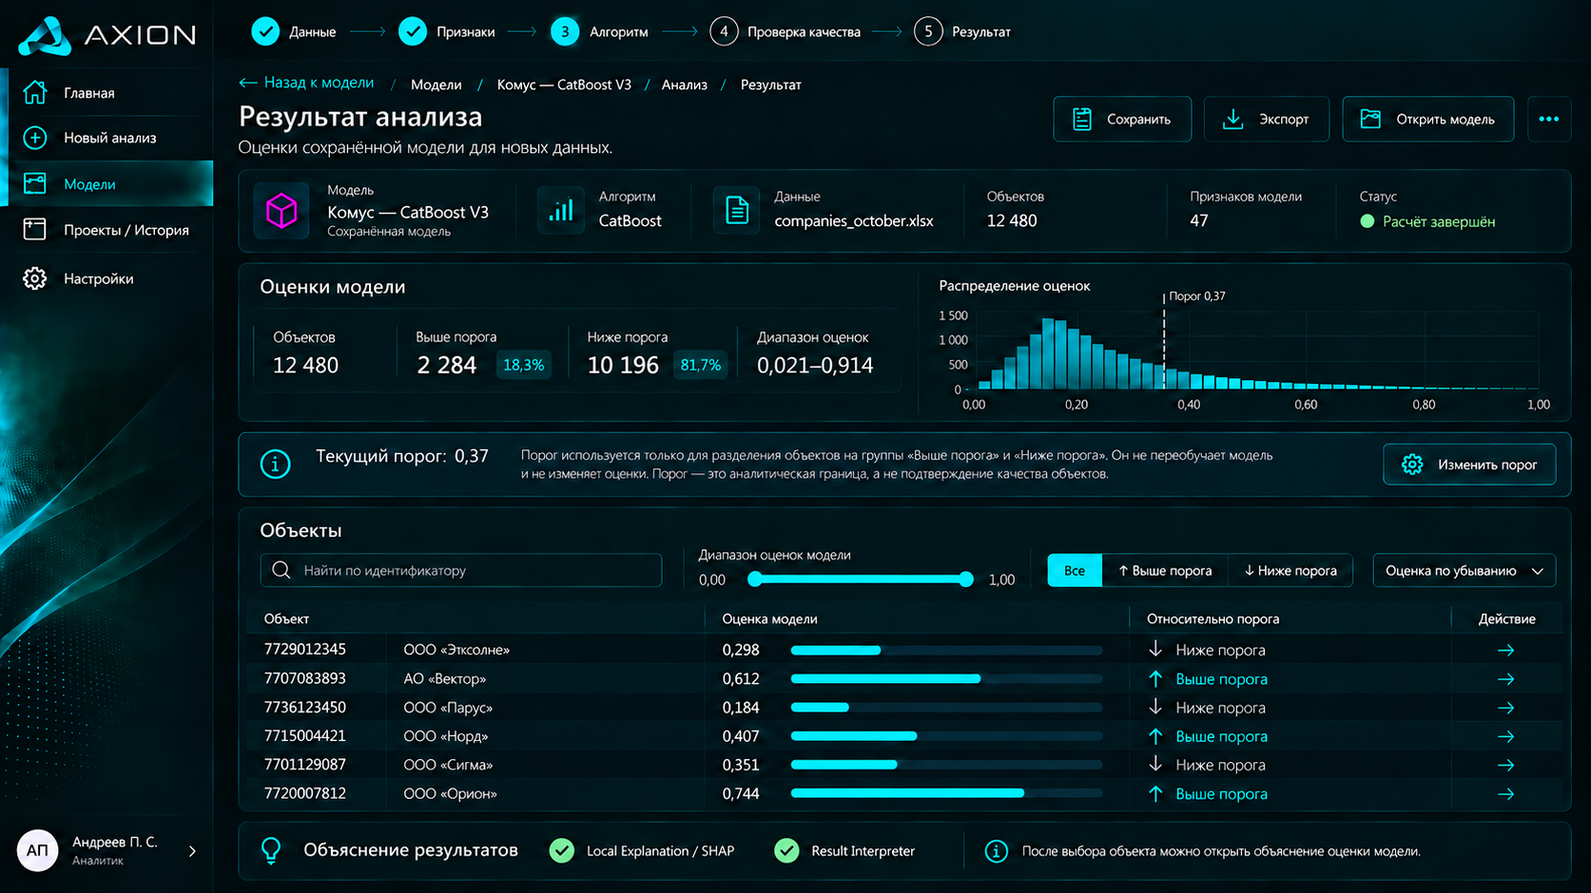
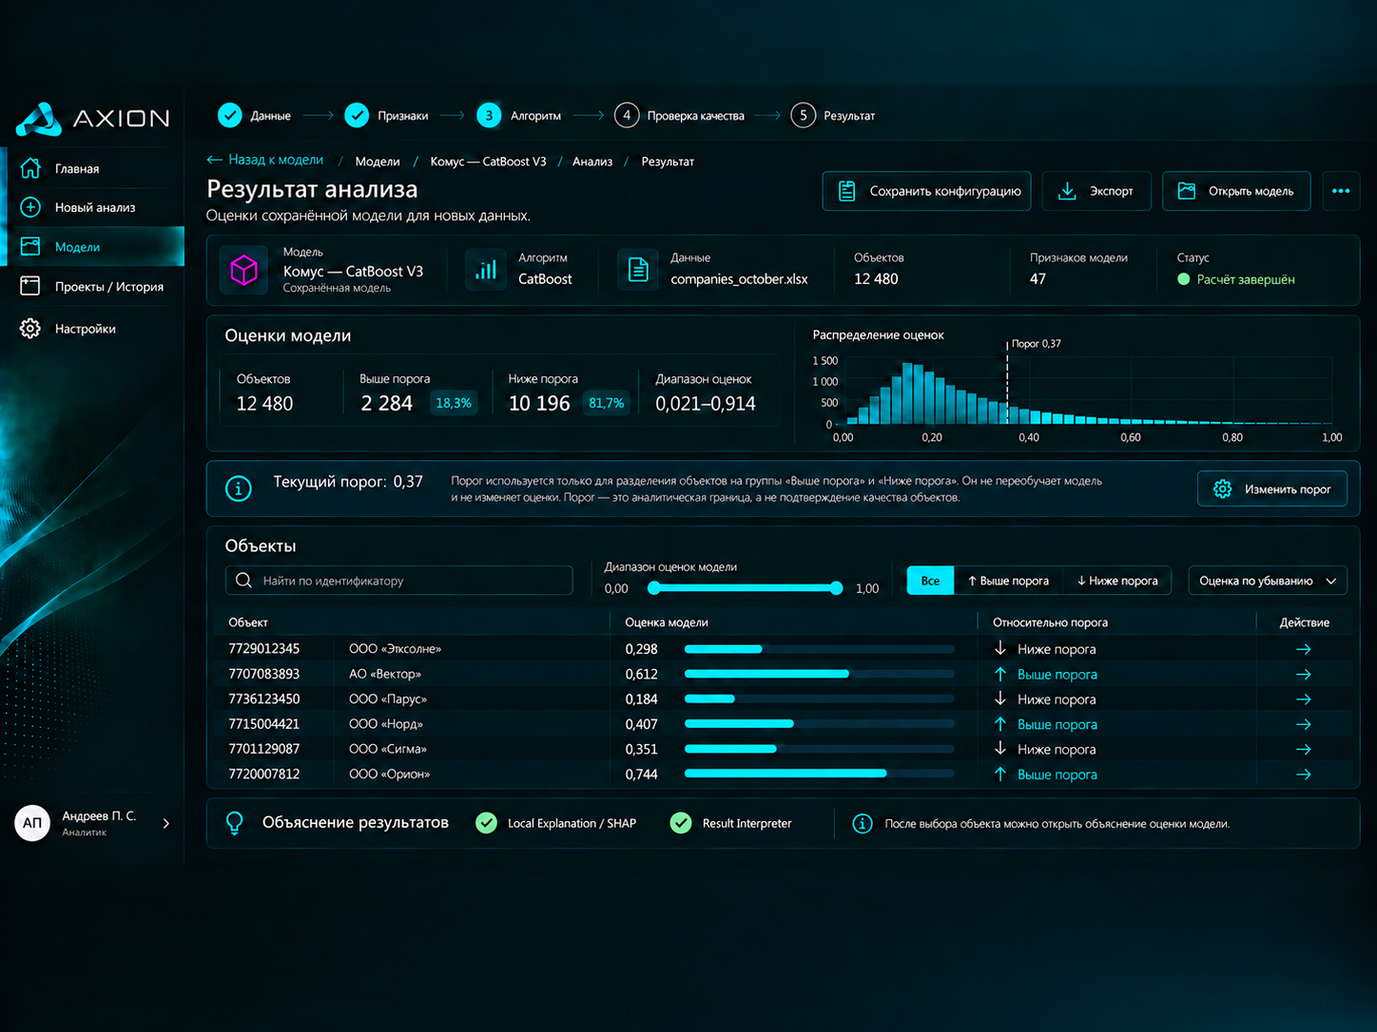
Зафиксировать результат inference и конфигурацию вида

diff --git a/docs/workstreams/generic_dataset_onboarding_v1/MODELS_UX_V1.md b/docs/workstreams/generic_dataset_onboarding_v1/MODELS_UX_V1.md
@@ -9,7 +9,7 @@ Primary visual references:
 - `docs/design/screens/models/02_algorithm_detail_highlight_v1.png`
 - `docs/design/screens/models/03_model_version_detail_v1.png`
 - `docs/design/screens/models/04_saved_model_inference_v1.png`
-- `docs/design/screens/models/05_saved_model_inference_result_v1.png` — DESIGN REFERENCE; threshold lifecycle/persistence pending Architect decision
+- `docs/design/screens/models/05_saved_model_inference_result_v1.png` — VISUAL LOCK; saved targetless inference Result with `Сохранить конфигурацию`; demo threshold `0.37` represents a changed/saved view, while no-config default remains `0.50`
 
 ## 1. Product model
 
@@ -276,13 +276,13 @@ Future backend implementation must provide a trusted application contract for:
 
 The UI must not infer compatibility from column count alone and must not silently remap missing model features.
 
-## 10. Saved Model Inference Result V1 — current design reference
+## 10. Saved Model Inference Result V1 — visual lock
 
 Reference:
 
 `05_saved_model_inference_result_v1.png`
 
-The owner accepted the screen composition and current visual language. It is intentionally recorded as a **DESIGN REFERENCE**, not yet a full semantic visual lock, because threshold lifecycle/persistence is awaiting a separate Architect decision.
+The owner accepted the final screen composition and current visual language. This PNG is the **VISUAL LOCK** for Saved Model Inference Result V1. The top action is `Сохранить конфигурацию`. Conditional `Сбросить настройки` remains inside the existing `⋯` menu and therefore does not need a separate always-visible control in the locked base state. Demo threshold `0.37` represents a changed/saved view; runtime default without saved configuration remains `0.50`.
 
 Stable semantics already visible in the reference:
 - targetless inference result shows immutable model scores for new objects;
@@ -292,9 +292,104 @@ Stable semantics already visible in the reference:
 - object-level Local Explanation / SHAP and Result Interpreter are downstream capabilities after selecting an object;
 - the current summary uses plain counts for objects above/below threshold plus percentages and score range.
 
-Open Architect decision:
-- whether inference result is automatically persisted as immutable result evidence;
-- whether threshold is transient view state or a persisted scenario over one immutable result;
-- what the top action `Сохранить` means;
-- where the initial targetless-inference threshold comes from;
-- `Изменить порог` must not be implemented as a model retraining action unless a future accepted decision explicitly changes this.
+### Accepted inference-result / saved view-configuration lifecycle
+
+Canonical model:
+
+```text
+Saved ModelVersion
++ targetless inference dataset
+→ immutable SavedModelInferenceResult
+    ├─ object identities
+    └─ immutable model scores
+
+SavedModelInferenceResult
+    ↓
+mutable SavedInferenceResultViewConfiguration
+    ├─ threshold
+    ├─ score range
+    ├─ above/below/all filter
+    ├─ sort
+    └─ search
+```
+
+Accepted semantics:
+- successful inference automatically persists one immutable `SavedModelInferenceResult` with exact `ModelVersion`, targetless dataset identity/fingerprint, input-contract provenance, object identities and immutable scores;
+- changing threshold, filters, score range, sorting or search never creates a new prediction run or duplicate Result, never changes scores and never retrains/reconfigures the ModelVersion;
+- `Изменить порог` is an inline analytical control on the current Result;
+- targetless threshold derives only `выше / ниже порога`, counts, shares, filters and threshold-relative sorting; no TP/TN/FP/FN, Recall, Precision or F1 are available without `y_true`;
+- threshold is not a property of `ModelVersion`; a future approved operating-threshold policy would be a separate explicit contract;
+- initial V1 threshold is technical default `0.50`, explicitly described as an analytical boundary, not an automatically selected business/optimal threshold;
+- accepted OOF diagnostic threshold does not automatically become targetless inference threshold.
+
+### Saved configuration V1
+
+The Result header action is:
+
+**`Сохранить конфигурацию`**
+
+It saves the current analytical view settings for this exact inference Result. V1 stores one active saved configuration per `inference_result_id`; repeated save updates/replaces that configuration instead of creating scenario history.
+
+Minimum V1 fields:
+
+```text
+inference_result_id
+threshold
+min_score
+max_score
+position_filter   # ALL / ABOVE / BELOW
+sort              # accepted list sort
+search            # current identifier search text
+updated_at
+```
+
+Not part of saved configuration:
+- immutable scores/object rows themselves;
+- model parameters or ModelVersion state;
+- training/inference rerun;
+- selected object/detail route;
+- scroll position / offset / transient loading state.
+
+When the same Result is opened later:
+- if a saved configuration exists, AXION restores it automatically;
+- if none exists, AXION opens defaults: threshold `0.50`, score range `0.00–1.00`, `Все`, score descending, empty search.
+
+### Reset settings
+
+`Сбросить настройки` is available only when a saved configuration exists for the current Result. It should live in the existing `⋯` menu rather than compete with the primary action.
+
+Reset behavior:
+- delete the saved view configuration for this Result;
+- immediately restore the V1 defaults;
+- keep the immutable `SavedModelInferenceResult` and all scores untouched.
+
+A lightweight undo/toast is allowed, but a blocking confirmation dialog is not required for V1 because no prediction evidence is deleted.
+
+### Dirty/saved state
+
+If the user changes any saved field after the last save, `Сохранить конфигурацию` becomes actionable again. After successful save, the UI may briefly show `Конфигурация сохранена` and return to the normal button state.
+
+Canonical distinction:
+
+```text
+SavedModelInferenceResult R123  # immutable prediction evidence
+└─ Saved view configuration     # mutable convenience state
+   threshold = 0.37
+   range = 0.10–0.85
+   filter = ABOVE
+   sort = SCORE_DESC
+```
+
+Saving/changing this configuration does not create another prediction Result.
+
+Implementation direction:
+- `SavedModelInferenceResultService` owns create/load of immutable inference evidence;
+- a small Result-view service derives threshold counts/list/filter from explicit current view state;
+- a separate lightweight configuration persistence boundary stores/loads/resets one saved view configuration per Result;
+- the configuration layer must never mutate `SavedModelInferenceResult` or `ModelVersion`.
+
+Visual lock notes for `05_saved_model_inference_result_v1.png`:
+- `Сохранить конфигурацию` is the canonical top action;
+- `Сбросить настройки` is conditional inside `⋯` and appears only when a saved configuration exists;
+- `0.37` in the locked PNG is demo saved-view state; default without saved configuration is `0.50`;
+- the accepted composition must not be reinterpreted as a new prediction run when view settings change.

diff --git a/docs/CURRENT_STATE.md b/docs/CURRENT_STATE.md
@@ -1325,7 +1325,8 @@ Visual source of truth:
 - `docs/design/screens/models/02_algorithm_detail_v1.png` — Algorithm Detail default state;
 - `docs/design/screens/models/02_algorithm_detail_highlight_v1.png` — Algorithm Detail with Metric Highlight enabled;
 - `docs/design/screens/models/03_model_version_detail_v1.png` — ModelVersion Detail для одной сохранённой обученной модели;
-- `docs/design/screens/models/04_saved_model_inference_v1.png` — применение сохранённой ModelVersion к новым данным без переобучения.
+- `docs/design/screens/models/04_saved_model_inference_v1.png` — применение сохранённой ModelVersion к новым данным без переобучения;
+- `docs/design/screens/models/05_saved_model_inference_result_v1.png` — **VISUAL LOCK** targetless inference Result; canonical action `Сохранить конфигурацию`, conditional reset в `⋯`; demo threshold `0.37` допустим как saved-view state, no-config default = `0.50`.
 
 UX/source of truth:
 `docs/workstreams/generic_dataset_onboarding_v1/MODELS_UX_V1.md`.
@@ -1340,4 +1341,17 @@ Canonical semantics:
 - «Подключить алгоритм» использует единый Connect Algorithm flow из «Новый анализ → Алгоритм» и «Модели»;
 - current backend всё ещё не имеет trusted public browse/list/history contract для всех persisted ModelVersion; runtime implementation не должна сканировать filesystem.
 
-ModelVersion Detail V1 и Saved Model Inference V1 теперь visual lock. Inference flow использует exact saved ModelVersion, показывает dataset обучения отдельно от нового dataset, допускает отсутствие target, проверяет trusted feature binding/types/order и не переобучает модель. Primary runtime CTA для однозначного действия — короткий `▶ Анализ`. Следующий models-design gap — post-inference result для новых данных.
+ModelVersion Detail V1 и Saved Model Inference V1 — visual lock. Targetless inference flow использует exact saved ModelVersion, показывает dataset обучения отдельно от нового dataset, допускает отсутствие target, проверяет trusted feature binding/types/order и не переобучает модель. Primary runtime CTA — короткий `▶ Анализ`.
+
+Saved Model Inference Result lifecycle теперь **ACCEPTED / LOCKED**:
+- успешный inference автоматически создаёт immutable persisted `SavedModelInferenceResult` с exact ModelVersion/input provenance, object identities и immutable scores;
+- threshold не входит в immutable Result и не является свойством ModelVersion;
+- `Изменить порог` работает inline и меняет только above/below classification, counts, filters/sorting; scores не пересчитываются, новый Result/run не создаётся;
+- targetless Result не имеет TP/TN/FP/FN, Recall/Precision/F1 без `y_true`;
+- initial threshold без saved configuration = technical `0.50`, не «оптимальный» и не автоматически перенесённый OOF/business threshold;
+- V1 вводит отдельную mutable `SavedInferenceResultViewConfiguration`: одна активная конфигурация на `inference_result_id`, без scenario history;
+- `Сохранить конфигурацию` сохраняет текущие threshold, score-range min/max, `Все/Выше/Ниже`, sort и identifier search; при следующем открытии того же Result они восстанавливаются автоматически;
+- `Сбросить настройки` показывается в `⋯` только при наличии saved configuration, удаляет её и возвращает defaults `0.50 / 0.00–1.00 / Все / SCORE_DESC / пустой поиск`;
+- saved view configuration не содержит scores, model parameters, row/detail navigation или scroll/offset и никогда не меняет `SavedModelInferenceResult`/`ModelVersion`.
+
+Следующий implementation gap для этого flow — trusted persistence/read contract `SavedModelInferenceResult`, threshold-derived Result view и лёгкий save/load/reset contract для одной view configuration на Result.

diff --git a/docs/design/notes/design-decisions.md b/docs/design/notes/design-decisions.md
@@ -36,3 +36,9 @@
 34. AXION action-copy: основные кнопки формулируются максимально коротко и по-человечески, когда контекст уже однозначен; иконка несёт часть смысла действия. Пример: `▶ Анализ` вместо длинного технического CTA на экране применения готовой модели. Пояснение добавляется только там, где без него пользователь может ошибиться. Принятые PNG не перерисовываются только ради сокращения текста: при реализации допустимо точечно упростить подписи, сохранив смысл действия и общий visual style.
 35. Saved Model Inference V1: visual lock — `docs/design/screens/models/04_saved_model_inference_v1.png`; сохранённая ModelVersion применяется к новым данным без retraining. Экран обязан различать dataset обучения модели и новый inference dataset, проверять trusted feature binding/types/order, допускать отсутствие target и не считать лишние колонки model inputs.
 36. Saved Model Inference V1: primary action — короткий `▶ Анализ`; это общий action-copy принцип AXION, а не изменение backend semantics. На экране показывается `Признаков модели`, а не абстрактное `Входных признаков`.
+37. Saved Model Inference Result V1: успешный targetless inference автоматически создаёт immutable persisted Result (`ModelVersion + input dataset identity + object identities + scores`); threshold и UI filters не входят в immutable Result и не меняют его evidence.
+38. Saved Model Inference Result V1: `Изменить порог` работает inline и меняет только above/below derived view, counts, filters/sorting; не retrain/recalculate и не создаёт новый Result. Без target запрещены TP/TN/FP/FN и quality metrics.
+39. Saved Model Inference Result V1: initial threshold без saved configuration = technical `0.50`; OOF diagnostic threshold автоматически не переносится. V1 допускает одну mutable saved view configuration на Result.
+40. Saved Model Inference Result V1: primary action `Сохранить конфигурацию` сохраняет threshold, score range, `Все/Выше/Ниже`, sort и identifier search для текущего Result; при повторном открытии они восстанавливаются. Повторное сохранение обновляет ту же конфигурацию, named scenario history не создаётся.
+41. Saved Model Inference Result V1: `Сбросить настройки` находится в `⋯` и показывается только при наличии saved configuration; удаляет только view configuration и возвращает defaults `0.50 / 0.00–1.00 / Все / SCORE_DESC / пустой поиск`, не затрагивая immutable Result/scores.
+42. Saved Model Inference Result V1: `docs/design/screens/models/05_saved_model_inference_result_v1.png` — accepted VISUAL LOCK. Показанный `0.37` трактуется как пример изменённой/сохранённой view configuration; чистый Result без saved configuration открывается с technical default `0.50`.

diff --git a/docs/design/MANIFEST.md b/docs/design/MANIFEST.md
@@ -27,7 +27,7 @@
 | Модели — алгоритм / подсветка метрик V1 | `screens/models/02_algorithm_detail_highlight_v1.png` | VISUAL LOCK; optional relative metric highlighting для текущего filtered list |
 | Модели — сохранённая модель V1 | `screens/models/03_model_version_detail_v1.png` | VISUAL LOCK; detail одной сохранённой ModelVersion, её OOF quality, данные, признаки и действия |
 | Модели — анализ новых данных V1 | `screens/models/04_saved_model_inference_v1.png` | VISUAL LOCK; применение сохранённой ModelVersion к новому совместимому dataset без переобучения |
-| Модели — результат анализа новых данных V1 | `screens/models/05_saved_model_inference_result_v1.png` | DESIGN REFERENCE; композиция принята, threshold lifecycle/persistence ждёт отдельный Architect decision |
+| Модели — результат анализа новых данных V1 | `screens/models/05_saved_model_inference_result_v1.png` | VISUAL LOCK; `Сохранить конфигурацию`, saved view восстанавливается на том же Result, `Сбросить настройки` доступен условно в `⋯`; default threshold без config = 0.50 |
 | Новый анализ — проверка качества V1 | `screens/new-analysis/05_quality_v1.png` | VISUAL LOCK; основной reference для native Quality V1 |
 | Результат V1 | `screens/result/01_result_v1.png` | PREVIOUS ACCEPTED VISUAL REFERENCE |
 | Результат модели V2 | `screens/result/02_result_model_overview_v2.png` | VISUAL LOCK; основной обзор завершённого experiment result |
@@ -65,7 +65,7 @@
 - `screens/models/02_algorithm_detail_highlight_v1.png` — accepted optional highlight-state того же Algorithm Detail;
 - `screens/models/03_model_version_detail_v1.png` — accepted visual lock detail одной сохранённой ModelVersion;
 - `screens/models/04_saved_model_inference_v1.png` — accepted visual lock применения сохранённой ModelVersion к новым данным без retraining;
-- `screens/models/05_saved_model_inference_result_v1.png` — current design reference targetless inference result; threshold lifecycle/persistence intentionally not locked yet;
+- `screens/models/05_saved_model_inference_result_v1.png` — accepted VISUAL LOCK targetless inference result; immutable Result + separate mutable saved view configuration are locked; `Сохранить конфигурацию` is canonical, `Сбросить настройки` lives conditionally in `⋯`, demo threshold 0.37 is not the no-config default;
 - canonical distinction: Algorithm/ModelPlugin ≠ trained ModelVersion;
 - Metric Highlight default OFF и сравнивает OOF Gini / ROC-AUC / PR-AUC только относительно текущего filtered list, отдельно по каждой колонке;
 - highlighting не является ranking, winner selection, final-test evidence или business verdict;

diff --git a/docs/design/README.md b/docs/design/README.md
@@ -38,7 +38,7 @@
 - `screens/models/02_algorithm_detail_highlight_v1.png` — тот же Algorithm Detail с опциональной относительной подсветкой OOF Gini / ROC-AUC / PR-AUC;
 - `screens/models/03_model_version_detail_v1.png` — detail конкретной сохранённой ModelVersion с OOF quality, dataset/features, saved configuration и дальнейшими действиями;
 - `screens/models/04_saved_model_inference_v1.png` — применение сохранённой ModelVersion к новым данным после trusted compatibility check, без переобучения;
-- `screens/models/05_saved_model_inference_result_v1.png` — текущий design reference результата targetless inference; композиция принята владельцем, lifecycle/persistence threshold отдельно уточняется Architect decision.
+- `screens/models/05_saved_model_inference_result_v1.png` — accepted Visual Lock результата targetless inference; immutable inference Result отделён от mutable saved view configuration. Runtime action — `Сохранить конфигурацию`; reset доступен условно через `⋯`; default threshold без saved config = 0,50.
 
 Product semantics и backend gap зафиксированы в `docs/workstreams/generic_dataset_onboarding_v1/MODELS_UX_V1.md`.
 
